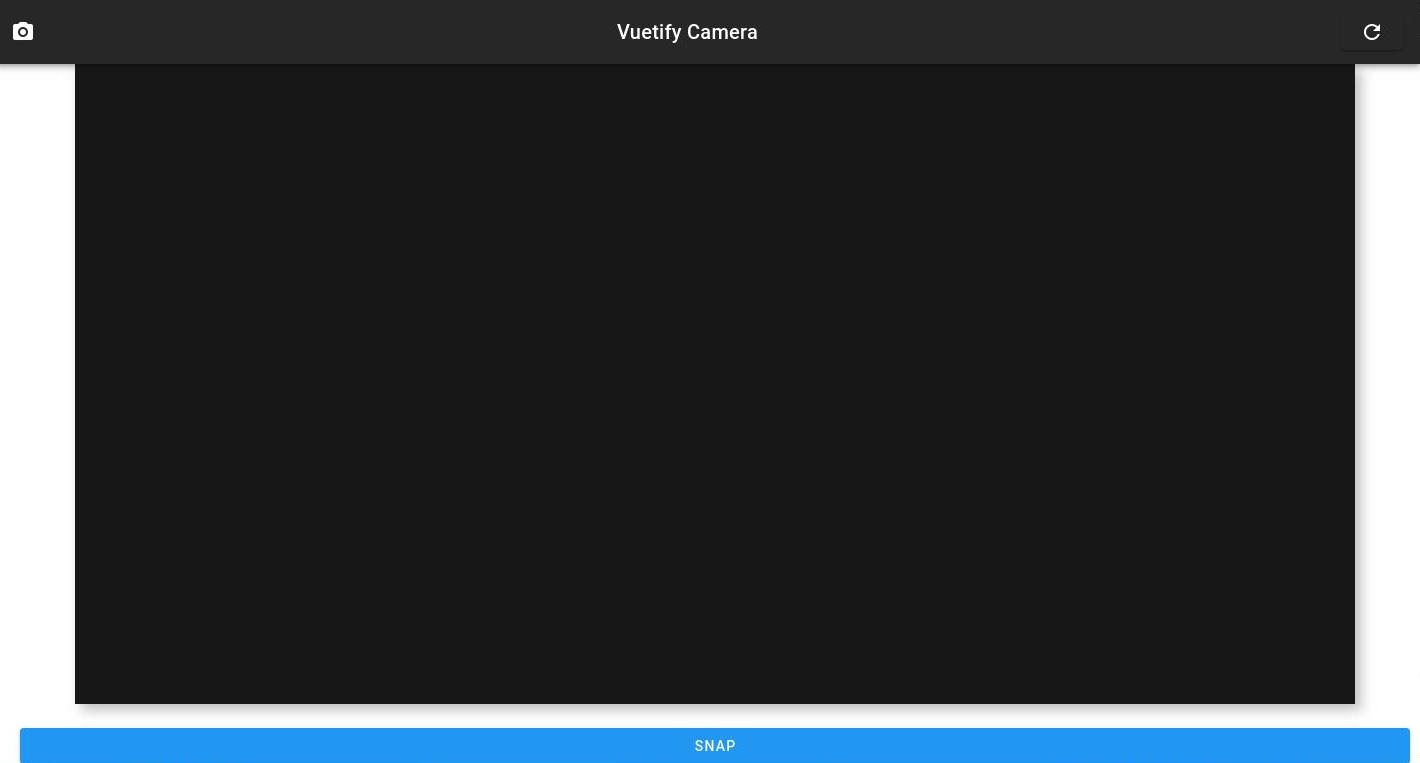
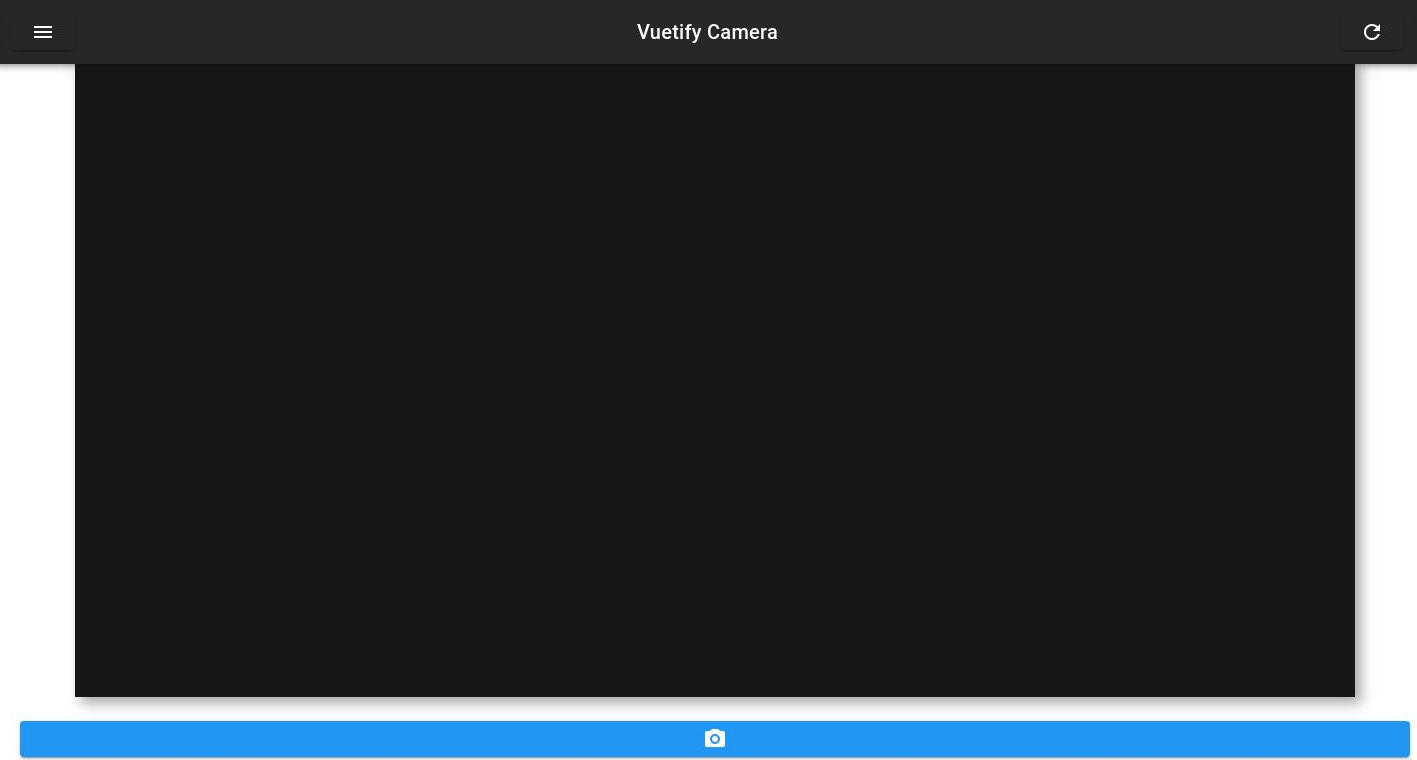
Update

diff --git a/src/components/Camera.vue b/src/components/Camera.vue
@@ -1,9 +1,9 @@
 <template>
 <section class="top" justify-center align-center>
-         <div class="mb-12 camera">
+         <div class="camera">
          <video autoplay class="feed"></video>
          <br />
-         <v-btn block dark color="info">SNAP</v-btn>
+         <v-btn block dark color="info"><v-icon>mdi-camera</v-icon></v-btn>
         </div>
 </section>
 </template>

diff --git a/src/App.vue b/src/App.vue
@@ -6,7 +6,7 @@
       dark
     >
      <v-btn to="/">
-    <v-icon>mdi-camera</v-icon>
+    <v-icon>mdi-menu</v-icon>
     </v-btn>
     <v-spacer></v-spacer>
     <v-toolbar-title class="white--text">
